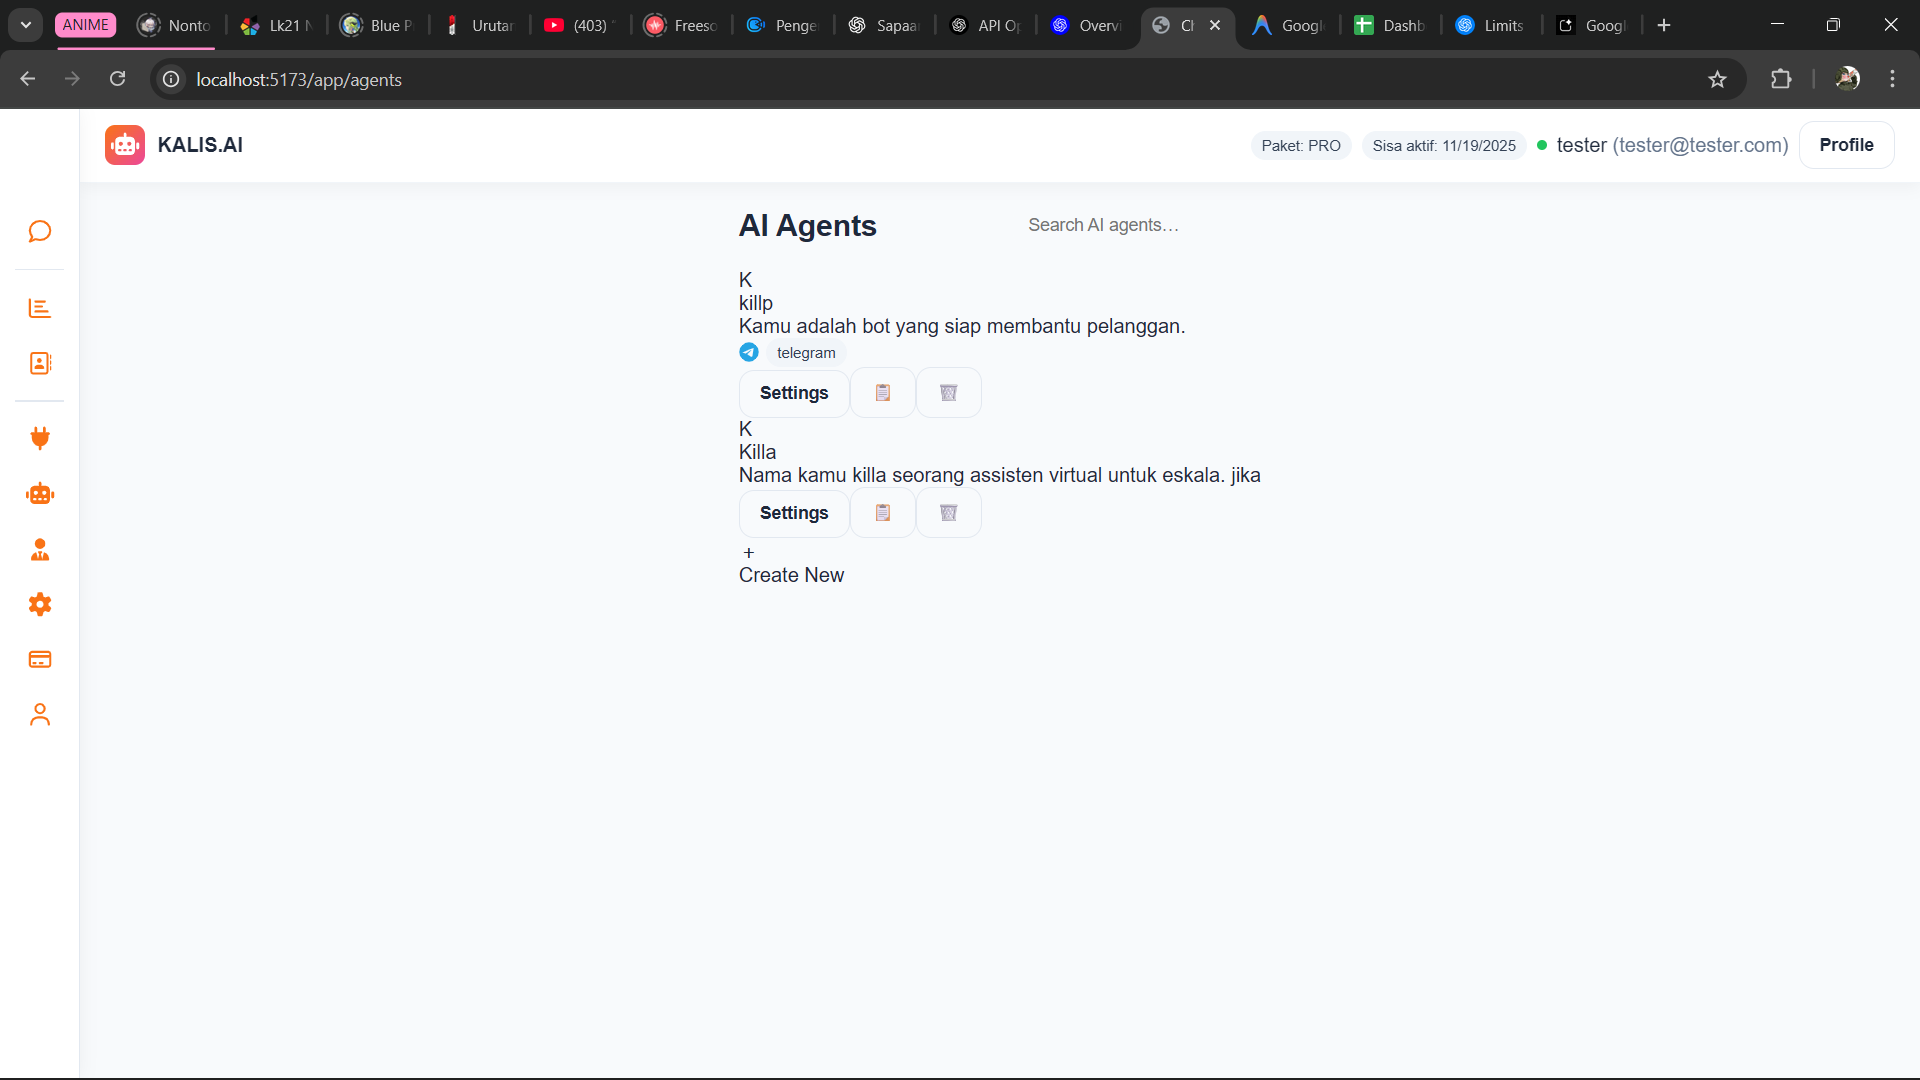
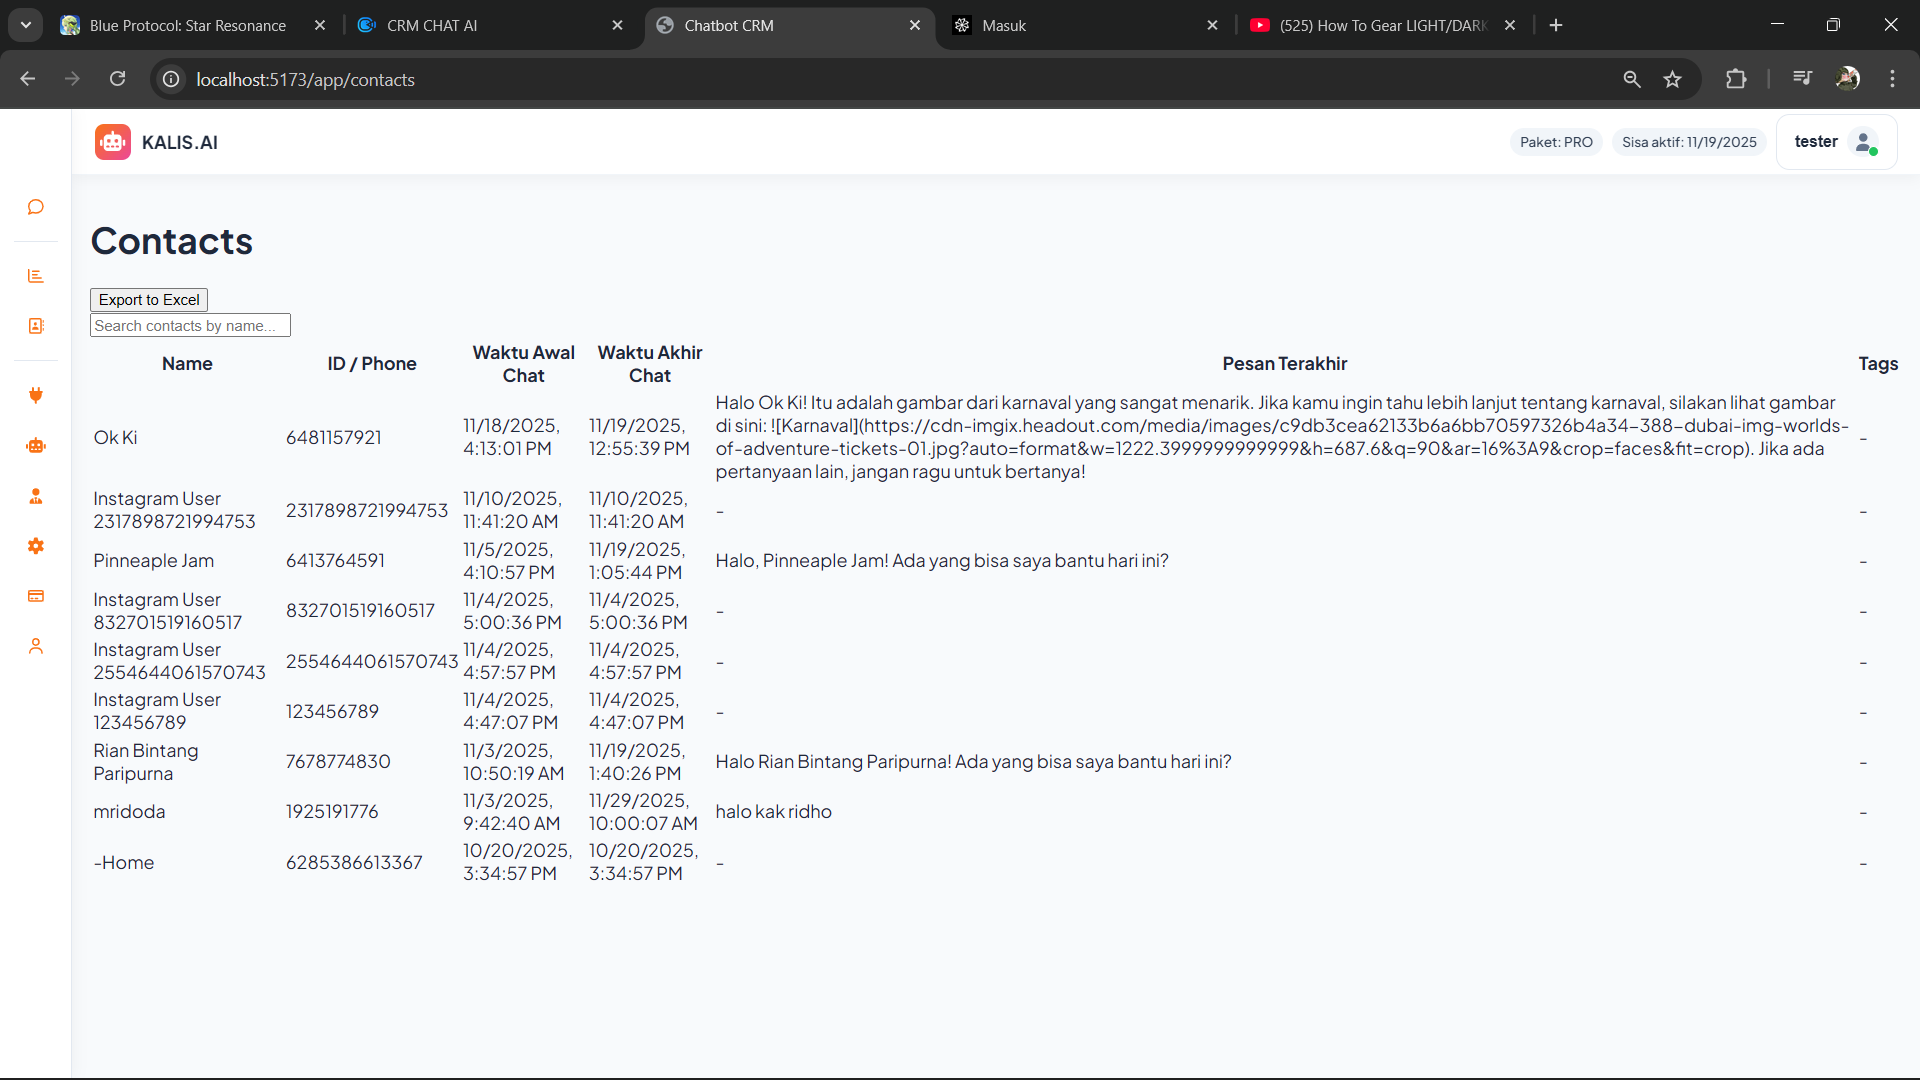
contCTS

diff --git a/web/src/pages/Dashboard.jsx b/web/src/pages/Dashboard.jsx
@@ -976,10 +976,11 @@ function Contacts() {
   const exportToExcel = () => {
     const ws = XLSX.utils.json_to_sheet(
       contacts.map((c) => ({
-        Name: c.name,
-        Phone: c.phone,
-        Email: c.email,
-        Tags: (c.tags || []).join(', '),
+        'Name': c.name,
+        'ID / Phone': c.platformAccountId || c.phone || '-',
+        'Waktu Awal Chat': new Date(c.createdAt).toLocaleString(),
+        'Waktu Akhir Chat': new Date(c.lastMessageAt).toLocaleString(),
+        'Pesan Terakhir': c.lastMessage || '-',
       }))
     )
     const wb = XLSX.utils.book_new()
@@ -993,16 +994,17 @@ function Contacts() {
         <div className="flex justify-between items-center mb-8">
           <h1 className="text-3xl font-bold text-slate-800">Contacts</h1>
           <button 
-            className="bg-gradient-to-r from-orange-500 to-pink-500 text-white font-semibold px-6 py-2 rounded-lg shadow-md hover:shadow-lg transition-shadow"
+            className="contacts-export-btn"
             onClick={exportToExcel}
           >
             Export to Excel
           </button>
         </div>
 
-        <div className="mb-8">
+        <div className="relative group mb-8">
+          <svg className="contacts-search-icon" fill="none" stroke="currentColor" viewBox="0 0 24 24"><path strokeLinecap="round" strokeLinejoin="round" strokeWidth={2} d="M21 21l-6-6m2-5a7 7 0 11-14 0 7 7 0 0114 0z" /></svg>
           <input
-            className="w-full px-4 py-3 border border-slate-200 rounded-xl bg-white shadow-sm focus:ring-2 focus:ring-orange-300 focus:border-orange-300 transition"
+            className="contacts-search-input"
             placeholder="Search contacts by name..."
             value={q}
             onChange={(e) => setQ(e.target.value)}
@@ -1011,35 +1013,24 @@ function Contacts() {
 
         <div className="bg-white rounded-2xl shadow-lg overflow-hidden">
           <div className="overflow-x-auto">
-            <table className="w-full text-sm text-left text-slate-500 border border-slate-200">
+            <table className="contacts-table-outline w-full text-sm text-left text-slate-500">
               <thead className="text-xs text-slate-700 uppercase bg-slate-50">
                 <tr>
-                  <th scope="col" className="px-6 py-4 font-semibold border-r border-slate-200">Name</th>
-                  <th scope="col" className="px-6 py-4 font-semibold border-r border-slate-200">ID / Phone</th>
-                  <th scope="col" className="px-6 py-4 font-semibold border-r border-slate-200">Waktu Awal Chat</th>
-                  <th scope="col" className="px-6 py-4 font-semibold border-r border-slate-200">Waktu Akhir Chat</th>
-                  <th scope="col" className="px-6 py-4 font-semibold border-r border-slate-200">Pesan Terakhir</th>
-                  <th scope="col" className="px-6 py-4 font-semibold">Tags</th>
+                  <th scope="col" className="px-6 py-4 font-semibold">Name</th>
+                  <th scope="col" className="px-6 py-4 font-semibold">ID / Phone</th>
+                  <th scope="col" className="px-6 py-4 font-semibold">Waktu Awal Chat</th>
+                  <th scope="col" className="px-6 py-4 font-semibold">Waktu Akhir Chat</th>
+                  <th scope="col" className="px-6 py-4 font-semibold">Pesan Terakhir</th>
                 </tr>
               </thead>
               <tbody>
                 {filtered.map((c) => (
                   <tr key={c._id} className="bg-white border-b hover:bg-slate-50 transition-colors">
-                    <td className="px-6 py-4 font-medium text-slate-900 whitespace-nowrap border-r border-slate-200">{c.name}</td>
-                    <td className="px-6 py-4 border-r border-slate-200">{c.platformAccountId || c.phone || '-'}</td>
-                    <td className="px-6 py-4 border-r border-slate-200">{new Date(c.createdAt).toLocaleString()}</td>
-                    <td className="px-6 py-4 border-r border-slate-200">{new Date(c.lastMessageAt).toLocaleString()}</td>
-                    <td className="px-6 py-4 border-r border-slate-200">{c.lastMessage || '-'}</td>
-                    <td className="px-6 py-4">
-                      <div className="flex flex-wrap gap-2">
-                        {(c.tags || []).map(tag => (
-                          <span key={tag} className="px-2.5 py-1 text-xs font-semibold rounded-full bg-orange-100 text-orange-700">
-                            {tag}
-                          </span>
-                        ))}
-                        {(c.tags || []).length === 0 && '-'}
-                      </div>
-                    </td>
+                    <td className="px-6 py-4 font-medium text-slate-900 whitespace-nowrap">{c.name}</td>
+                    <td className="px-6 py-4">{c.platformAccountId || c.phone || '-'}</td>
+                    <td className="px-6 py-4">{new Date(c.createdAt).toLocaleString()}</td>
+                    <td className="px-6 py-4">{new Date(c.lastMessageAt).toLocaleString()}</td>
+                    <td className="px-6 py-4 max-w-xs truncate whitespace-nowrap">{c.lastMessage || '-'}</td>
                   </tr>
                 ))}
               </tbody>

diff --git a/web/src/inbox-modern.css b/web/src/inbox-modern.css
@@ -1260,3 +1260,246 @@
     opacity: 0.5;
     cursor: not-allowed;
 }
+
+/* ===== CONTACTS TABLE OUTLINE ===== */
+
+.contacts-table-outline {
+
+    border: 1px solid #E2E8F0;
+    /* Outer border for the table */
+
+    border-collapse: collapse;
+    /* Ensure borders are collapsed */
+
+}
+
+
+
+.contacts-table-outline th,
+
+
+
+.contacts-table-outline td {
+
+
+
+    border: 1px solid #E2E8F0;
+    /* Borders for all cells */
+
+
+
+    padding-left: 1.5rem;
+    /* px-6 equivalent */
+
+
+
+    padding-right: 1.5rem;
+    /* px-6 equivalent */
+
+
+
+}
+
+
+
+/* ===== CONTACTS UI ELEMENTS ===== */
+
+
+
+.contacts-export-btn {
+
+
+
+    background: linear-gradient(to right, #F97316, #EC4899);
+
+
+
+    color: white;
+
+
+
+    font-weight: 600;
+
+
+
+    padding: 0.5rem 1.5rem;
+
+
+
+    border-radius: 0.5rem;
+
+
+    transition: box-shadow 0.3s;
+
+
+
+}
+
+
+
+
+
+
+
+.contacts-export-btn:hover {
+
+
+
+    box-shadow: 0 10px 15px -3px rgb(0 0 0 / 0.1), 0 4px 6px -4px rgb(0 0 0 / 0.1);
+
+
+
+}
+
+
+
+
+
+
+
+.contacts-search-input {
+
+
+
+    width: 100%;
+
+
+
+    padding-left: 2.5rem;
+
+
+
+    padding-right: 1rem;
+
+
+
+    padding-top: 0.75rem;
+
+
+
+    padding-bottom: 0.75rem;
+
+
+
+    border: 1px solid #E2E8F0;
+
+
+
+    border-radius: 0.75rem;
+
+
+
+    background-color: white;
+
+
+
+    box-shadow: 0 1px 2px 0 rgb(0 0 0 / 0.05);
+
+
+
+    transition: all 0.3s;
+
+
+
+}
+
+
+
+
+
+
+
+.contacts-search-input:focus {
+
+
+
+    --tw-ring-offset-shadow: var(--tw-ring-inset) 0 0 0 var(--tw-ring-offset-width) var(--tw-ring-offset-color);
+
+
+
+    --tw-ring-shadow: var(--tw-ring-inset) 0 0 0 calc(2px + var(--tw-ring-offset-width)) var(--tw-ring-color);
+
+
+
+    box-shadow: var(--tw-ring-offset-shadow), var(--tw-ring-shadow), var(--tw-shadow, 0 0 #0000);
+
+
+
+    --tw-ring-color: #FDBA74;
+
+
+
+    border-color: #FDBA74;
+
+
+
+}
+
+
+
+
+
+
+
+.contacts-search-icon {
+
+
+
+    position: absolute;
+
+
+
+    left: 0.875rem;
+    /* Equivalent to left-3.5 in Tailwind (14px) */
+
+
+
+    top: 50%;
+
+
+
+    transform: translateY(-50%);
+
+
+
+    color: #94A3B8;
+    /* Equivalent to text-slate-400 */
+
+
+
+    width: 1rem;
+    /* Equivalent to w-4 (16px) */
+
+
+
+    height: 1rem;
+    /* Equivalent to h-4 (16px) */
+
+
+
+    transition: color 0.3s;
+
+
+
+}
+
+
+
+
+
+
+
+/* Style for when the parent group is focused */
+
+
+
+.group:focus-within .contacts-search-icon {
+
+
+
+    color: #F97316;
+    /* Equivalent to group-focus-within:text-orange-500 */
+
+
+
+}
